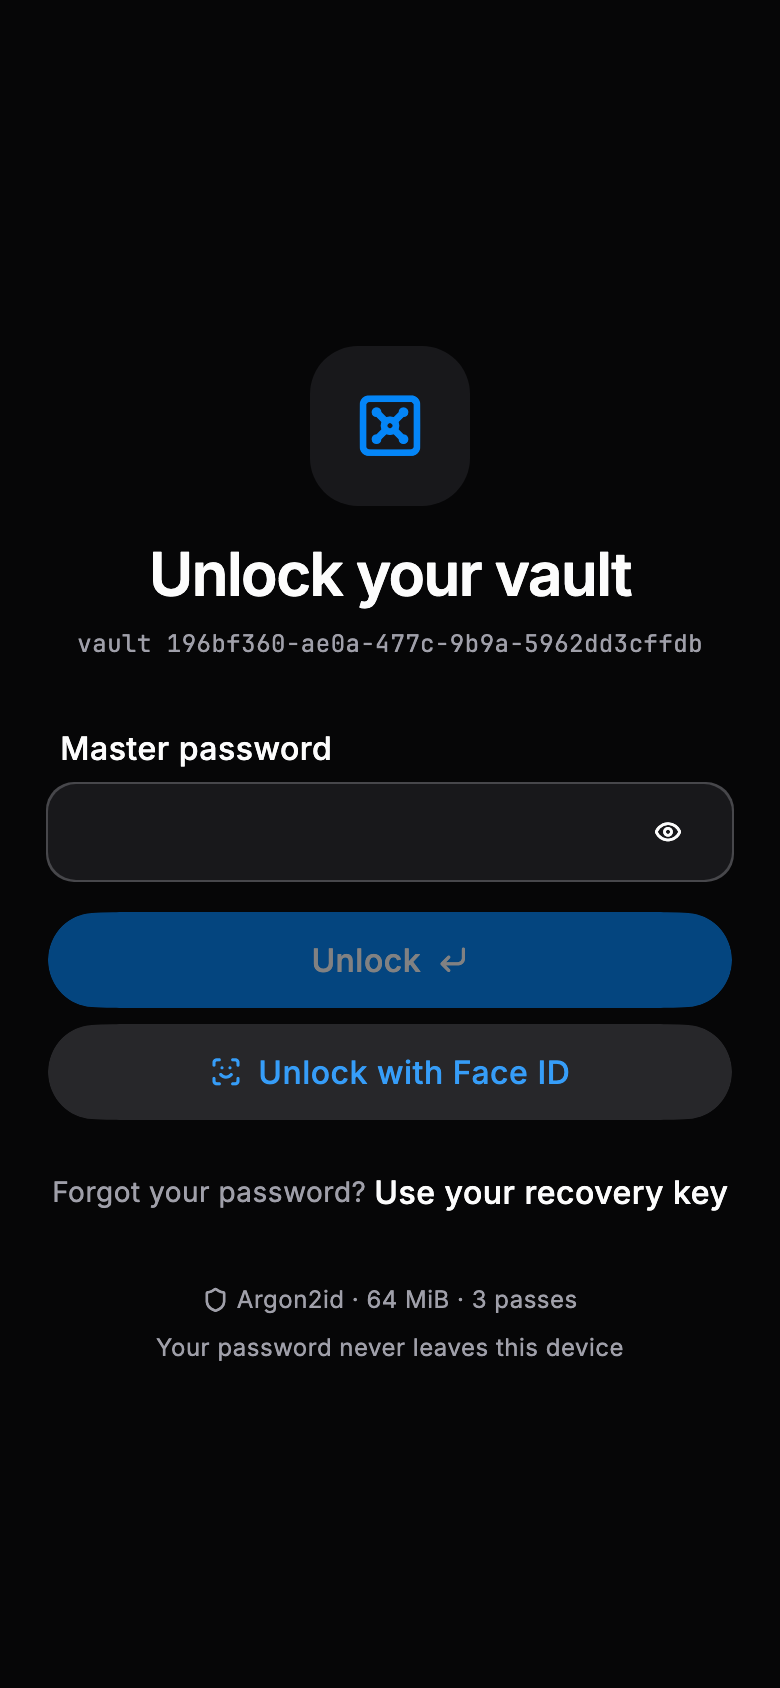
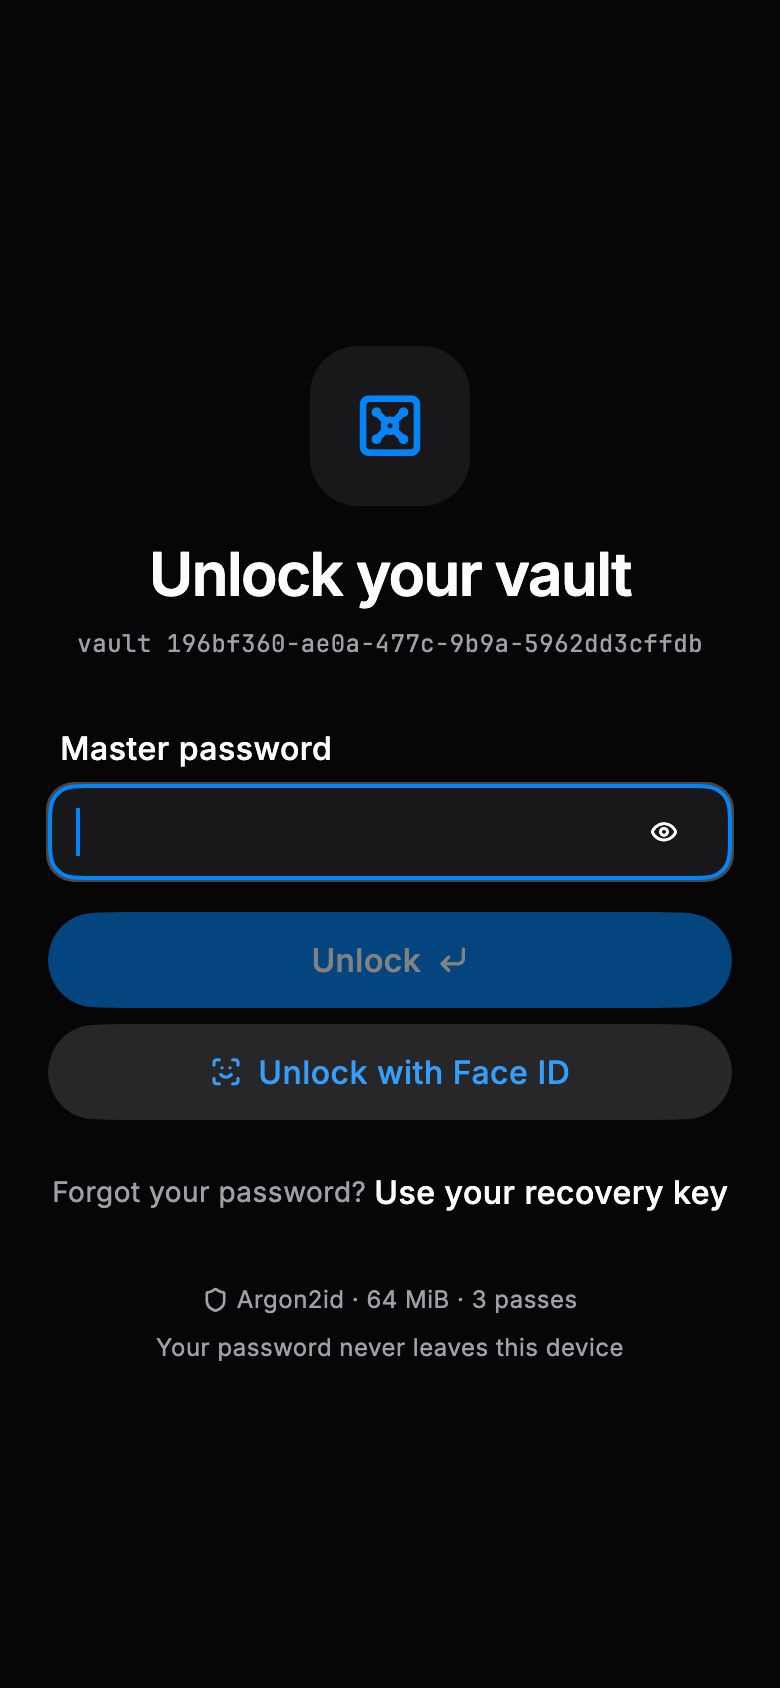
Shoot B1-unlock-face-id with the password field focused
An unfocused field rendered differently on CI; focused is also what the
screen shows after a dismissed prompt.

Changed region(s): [[0.8308, 0.4621, 0.8923, 0.5237], [0.0615, 0.4621, 0.1231, 0.5237], [0.9231, 0.4621, 0.9538, 0.5237]]

diff --git a/test/screenshots/unlock_shots_test.dart b/test/screenshots/unlock_shots_test.dart
@@ -5,6 +5,7 @@ import 'package:devvault/app/routes.dart';
 import 'package:devvault/data/providers.dart';
 import 'package:devvault/services/biometric_key_store.dart';
 import 'package:flutter/foundation.dart';
+import 'package:flutter/widgets.dart';
 import 'package:flutter_test/flutter_test.dart';
 
 import '../test_overrides.dart';
@@ -35,6 +36,9 @@ void main() {
     vault: TestVault.locked,
     realKdf: true,
     overrides: [biometricKeyStoreProvider.overrideWithValue(_Dismissed())],
+    // After a dismissed prompt the password field takes focus; when that
+    // happens depends on timing, so focus it here, the same every time.
+    interact: (tester) => tester.tap(find.byType(EditableText)),
   );
   shot('D00-recover', Routes.recover, vault: TestVault.locked);
 }
